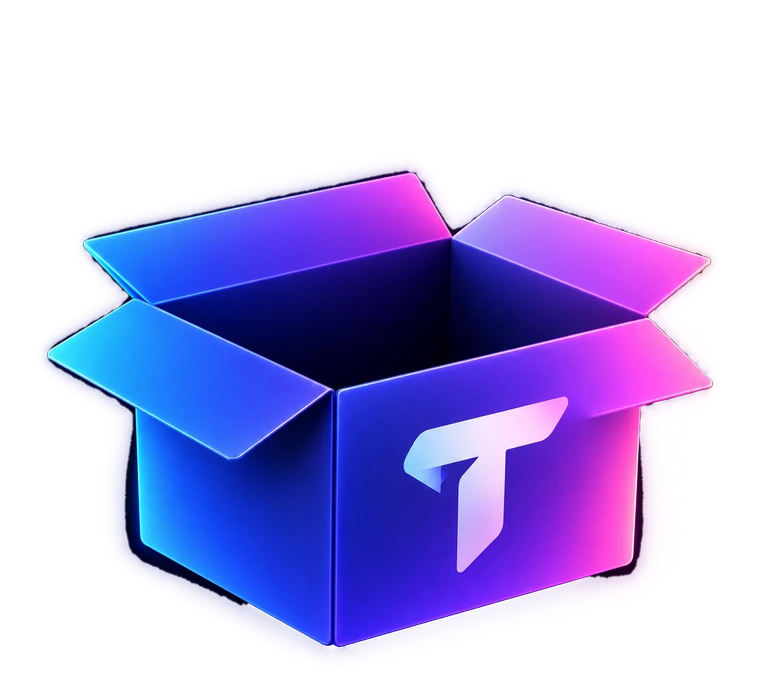
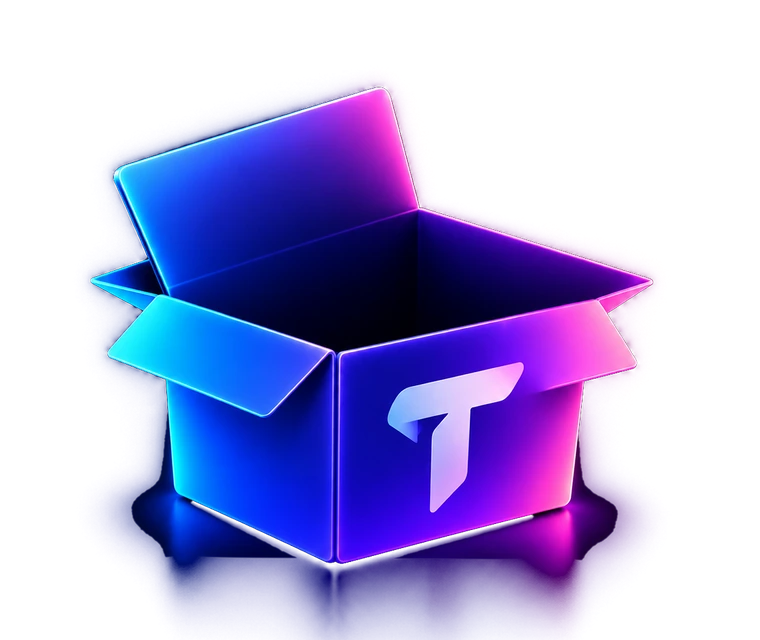
Intro: quti va qurilmalar logodagi joylarga aniq moslandi — almashish/chaqnashsiz
ChatGPT'da logo asosida yaratilgan quti va 5 ta qurilma: har birining logodagi o'rni, masshtabi va burchagi
piksel moslik bo'yicha avtomatik topildi (Nelder-Mead), quti qirralari bo'yicha logo kadriga keltirildi.
Qurilmalar qutiga tushib, yakuniy kadr logoning o'zi bo'lib qoladi.

Claude-Session: https://claude.ai/code/session_019JFRoEUmdfUzBZbz92TZM4

diff --git a/index.html b/index.html
@@ -12,7 +12,6 @@
 <link rel="preload" as="image" href="intro/p-phone.webp">
 <link rel="preload" as="image" href="intro/p-watch.webp">
 <link rel="preload" as="image" href="intro/p-airpods.webp">
-<link rel="preload" as="image" href="intro/mark.webp">
 <link rel="preload" as="image" href="intro/text.webp">
 <link rel="icon" href="logo.jpg">
 <script src="https://telegram.org/js/telegram-web-app.js"></script>
@@ -4270,8 +4269,7 @@ body.modal-open {
 #intro .in-stars i { position: absolute; width: 2px; height: 2px; border-radius: 50%; background: #fff; opacity: 0; animation: inTw 2.4s ease-in-out infinite; }
 /* Sahna: telefonda ekran eniga, kompyuterda balandlikka moslashadi */
 #intro .in-stage { position: relative; width: min(84vw, 50vh, 460px); display: flex; flex-direction: column; align-items: center; }
-#intro .in-box { position: relative; width: 100%; aspect-ratio: 760 / 676; }
-#intro .in-box > img.in-full { inset: auto 0 0 0; height: auto; aspect-ratio: 760 / 600; }
+#intro .in-box { position: relative; width: 100%; aspect-ratio: 760 / 640; }
 #intro .in-box > img { position: absolute; inset: 0; width: 100%; height: 100%; opacity: 0; will-change: transform, opacity; }
 #intro .in-shadow { position: absolute; left: 18%; right: 18%; bottom: 2%; height: 9%; border-radius: 50%; background: radial-gradient(closest-side, rgba(120,90,255,.55), transparent); filter: blur(6px); opacity: 0; }
 #intro .in-flash { position: absolute; left: 50%; top: 50%; width: 80%; aspect-ratio: 1; border-radius: 50%; transform: translate(-50%, -50%) scale(.2); background: radial-gradient(circle, rgba(255,255,255,.9), rgba(167,139,250,.5) 30%, transparent 65%); opacity: 0; mix-blend-mode: screen; pointer-events: none; }
@@ -4289,12 +4287,9 @@ body.modal-open {
 
 #intro.go .in-aur { animation: inAur 3s ease-out forwards; }
 #intro.go .in-floor { animation: inFade .8s .1s ease-out forwards; }
-#intro.go .in-back, #intro.go .in-front { animation: inBox .62s .05s cubic-bezier(.2,1.4,.4,1) forwards, inSwapOut .22s 1.9s ease-in forwards; }
+#intro.go .in-back, #intro.go .in-front { animation: inBox .62s .05s cubic-bezier(.2,1.4,.4,1) forwards; }
 #intro.go .in-shadow { animation: inFade .5s .2s forwards; }
-#intro.go .in-prod { animation: inDrop .5s var(--t) forwards, inSwapOut .22s 1.9s ease-in forwards; }
-/* Portlash paytida — asl logo (siz yuborgan rasm) paydo bo'ladi */
-#intro.go .in-full { animation: inFullIn .5s 1.88s cubic-bezier(.2,1.2,.4,1) forwards; }
-#intro.go .in-flash { animation: inFlash .6s 1.84s ease-out forwards; }
+#intro.go .in-prod { animation: inDrop .5s var(--t) forwards; }
 #intro.go .in-ring { animation: inRing .8s 1.92s cubic-bezier(.1,.7,.3,1) forwards; }
 #intro.go .in-ring.r2 { animation-delay: 2.04s; }
 #intro.go .in-p { animation: inP .9s var(--d, 1.95s) cubic-bezier(.1,.8,.3,1) forwards; }
@@ -4316,8 +4311,6 @@ body.modal-open {
   84% { transform: translateY(-2.5%) scaleY(1.02); animation-timing-function: ease-in; }
   100% { opacity: 1; transform: translateY(0) scaleY(1); }
 }
-@keyframes inSwapOut { from { opacity: 1; } to { opacity: 0; } }
-@keyframes inFullIn { 0% { opacity: 0; transform: scale(.9); filter: brightness(2.2) blur(4px); } 100% { opacity: 1; transform: scale(1); filter: brightness(1) blur(0); } }
 @keyframes inFlash { 0% { opacity: 0; transform: translate(-50%,-50%) scale(.2); } 22% { opacity: 1; transform: translate(-50%,-50%) scale(1); } 100% { opacity: 0; transform: translate(-50%,-50%) scale(1.7); } }
 @keyframes inRing { 0% { opacity: 1; transform: translate(-50%,-50%) scale(.2); } 100% { opacity: 0; transform: translate(-50%,-50%) scale(2.6); } }
 @keyframes inP { 0% { opacity: 1; transform: translate(-50%,-50%) translate(0,0) scale(1); } 100% { opacity: 0; transform: translate(-50%,-50%) translate(var(--x), var(--y)) scale(.3); } }
@@ -4346,8 +4339,6 @@ body.modal-open {
       <img class="in-prod" style="--t:1.28s;--r:9deg" data-land="1.61" src="intro/p-watch.webp" alt="">
       <img class="in-prod" style="--t:1.46s;--r:-7deg" data-land="1.79" src="intro/p-airpods.webp" alt="">
       <img class="in-front" src="intro/box-front.webp" alt="">
-      <img class="in-full" src="intro/mark.webp" alt="">
-      <div class="in-flash"></div>
       <div class="in-ring"></div><div class="in-ring r2"></div>
     </div>
     <div class="in-text-w"><img class="in-text" src="intro/text.webp" alt="TechStore"><div class="in-shine"></div></div>
